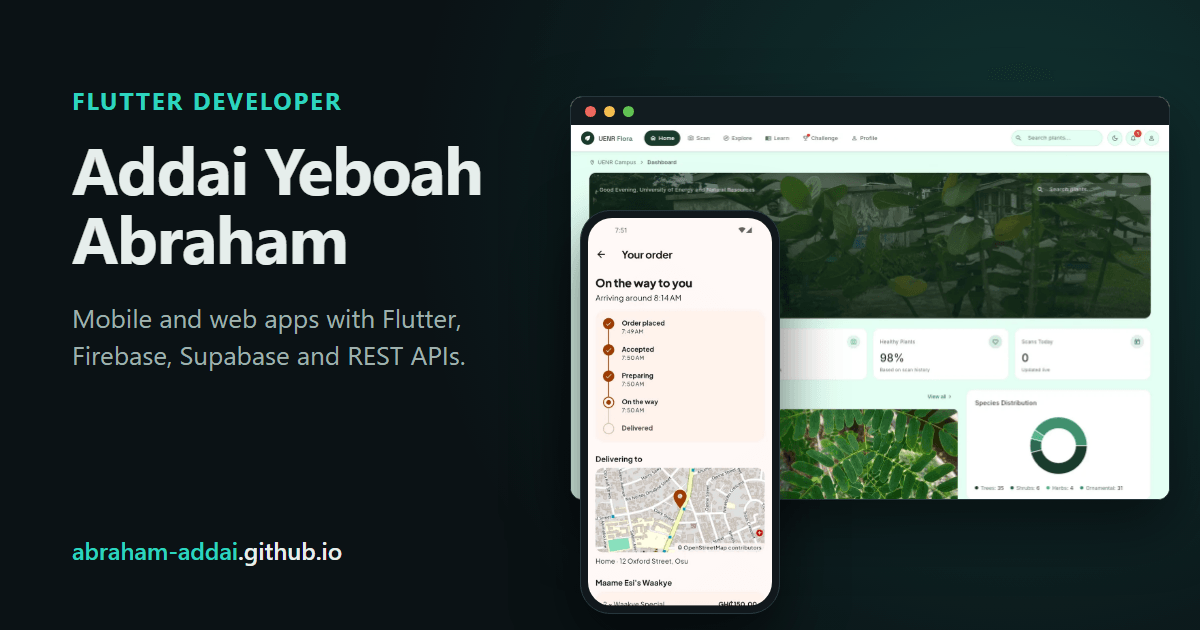
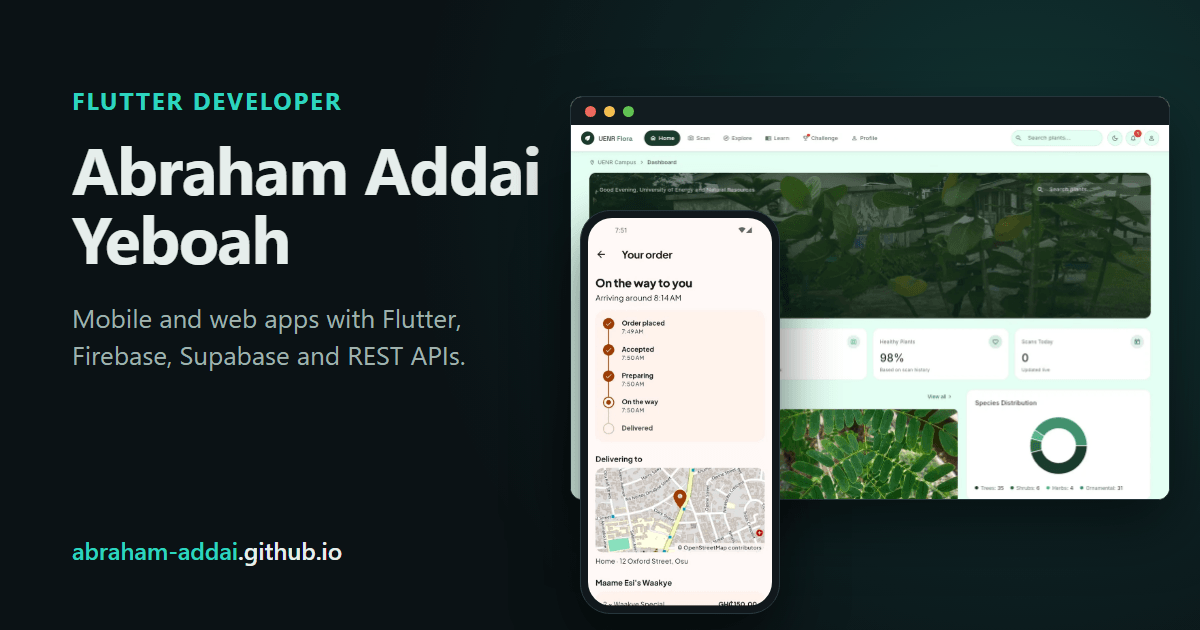
feat: use 'Abraham Addai Yeboah' everywhere and sync content with new CV

Changed region(s): [[0.0617, 0.2111, 0.4625, 0.4222]]

diff --git a/index.html b/index.html
@@ -3,7 +3,7 @@
   <head>
     <meta charset="utf-8" />
     <meta name="viewport" content="width=device-width, initial-scale=1" />
-    <title>Addai Yeboah Abraham | Flutter Developer</title>
+    <title>Abraham Addai Yeboah | Flutter Developer</title>
     <meta
       name="description"
       content="Flutter developer in Ghana building mobile and web apps with Firebase, Supabase and REST APIs. Projects: QuickPlate, UENR Flora, CampusPrint, HostelHub."
@@ -23,10 +23,10 @@
     <link rel="icon" href="assets/favicon.svg" type="image/svg+xml" />
 
     <meta property="og:type" content="profile" />
-    <meta property="og:site_name" content="Addai Yeboah Abraham" />
+    <meta property="og:site_name" content="Abraham Addai Yeboah" />
     <meta
       property="og:title"
-      content="Addai Yeboah Abraham | Flutter Developer"
+      content="Abraham Addai Yeboah | Flutter Developer"
     />
     <meta
       property="og:description"
@@ -41,12 +41,12 @@
     <meta property="og:image:height" content="630" />
     <meta
       property="og:image:alt"
-      content="Addai Yeboah Abraham, Flutter Developer, with screenshots of QuickPlate and UENR Flora"
+      content="Abraham Addai Yeboah, Flutter Developer, with screenshots of QuickPlate and UENR Flora"
     />
     <meta name="twitter:card" content="summary_large_image" />
     <meta
       name="twitter:title"
-      content="Addai Yeboah Abraham | Flutter Developer"
+      content="Abraham Addai Yeboah | Flutter Developer"
     />
     <meta
       name="twitter:description"
@@ -58,14 +58,14 @@
     />
     <meta
       name="twitter:image:alt"
-      content="Addai Yeboah Abraham, Flutter Developer, with screenshots of QuickPlate and UENR Flora"
+      content="Abraham Addai Yeboah, Flutter Developer, with screenshots of QuickPlate and UENR Flora"
     />
 
     <script type="application/ld+json">
       {
         "@context": "https://schema.org",
         "@type": "Person",
-        "name": "Addai Yeboah Abraham",
+        "name": "Abraham Addai Yeboah",
         "jobTitle": "Flutter Developer",
         "url": "https://abraham-addai.github.io/",
         "email": "mailto:addaiabraham76@gmail.com",
@@ -92,7 +92,7 @@
 
     <header class="site-header">
       <div class="container site-header__inner">
-        <a class="logo" href="#top">Addai Yeboah Abraham</a>
+        <a class="logo" href="#top">Abraham Addai Yeboah</a>
         <button
           class="theme-toggle"
           type="button"
@@ -135,19 +135,22 @@
       <section id="top" class="section hero" aria-labelledby="hero-title">
         <div class="container stack">
           <p class="eyebrow">Flutter Developer</p>
-          <h1 id="hero-title">Addai Yeboah Abraham</h1>
+          <h1 id="hero-title">Abraham Addai Yeboah</h1>
           <p class="lead hero__pitch">
             I build mobile and web apps with Flutter, Firebase, Supabase and
             REST APIs. Computer Science graduate from UENR, Ghana (2026), with
             internship and remote software engineering experience.
           </p>
           <p class="hero__meta">
-            Ghana (remote-friendly). Open to full-time or part-time remote
-            roles.
+            Kumasi, Ghana (open to remote). Looking for a remote full-time or
+            part-time Flutter role.
           </p>
           <div class="cluster hero__actions">
             <a class="btn btn--primary" href="#projects">View projects</a>
-            <a class="btn" href="assets/cv/Addai_Yeboah_Abraham_CV.pdf" download
+            <a
+              class="btn"
+              href="assets/cv/Abraham_Addai_Yeboah_Flutter_CV.pdf"
+              download
               >Download CV <span class="small">(PDF)</span></a
             >
             <a class="btn" href="mailto:addaiabraham76@gmail.com">Email me</a>
@@ -476,24 +479,23 @@
             <li class="timeline__item">
               <article>
                 <h3>Flutter Mobile Development Intern, Amalitech</h3>
-                <p class="timeline__meta">Kumasi · 2025</p>
+                <p class="timeline__meta">Kumasi, Ghana · 2025 (3 months)</p>
                 <ul class="timeline__points">
                   <li>
                     Built features for NetSim, a team-built network simulation
                     game in Flutter with Riverpod: a scenario editor for devices
                     and their connections, player scoring with a leaderboard,
-                    and pause/resume for the simulation
-                  </li>
-                  <li>
-                    Modelled device errors in the simulation (error types, how
-                    each is handled, and automatic recovery after a grace
-                    period)
+                    pause/resume, and device errors that recover automatically
+                    after a grace period
                   </li>
                   <li>
                     Built the simulation logs end to end: the logs screen in
-                    Flutter and the log endpoints in the Node.js/Express
-                    backend, working in a feature-branch Git workflow with the
-                    team
+                    Flutter and the log endpoints in the Node.js/Express backend
+                  </li>
+                  <li>
+                    Worked with senior developers on UI/UX implementation and
+                    feature integration, took part in code reviews and agile
+                    processes, and used Git for collaborative development
                   </li>
                 </ul>
               </article>
@@ -504,11 +506,13 @@
                 <p class="timeline__meta">Remote (Sweden) · 2023 to 2024</p>
                 <ul class="timeline__points">
                   <li>
-                    Maintained a Flutter grocery app that sells food items
+                    Maintained a Flutter grocery app that sells food items,
+                    keeping the product catalogue up to date and the app running
+                    for customers
                   </li>
                   <li>
-                    Kept the product catalogue up to date and kept the app
-                    running for customers
+                    Collaborated with cross-functional teams to design,
+                    implement and deploy application features
                   </li>
                 </ul>
               </article>
@@ -516,13 +520,17 @@
             <li class="timeline__item">
               <article>
                 <h3>Field Trainer, Ecom Ghana</h3>
-                <p class="timeline__meta">2020 to 2024</p>
+                <p class="timeline__meta">
+                  Akrokerti, Obuasi District · 2020 to 2024
+                </p>
                 <ul class="timeline__points">
                   <li>
-                    Coordinated training sessions and supported the delivery of
-                    training activities
+                    Led a team of junior trainers and coordinated training
+                    sessions to improve field staff performance
                   </li>
-                  <li>Helped lead and guide junior trainers</li>
+                  <li>
+                    Implemented technology-assisted data collection processes
+                  </li>
                   <li>
                     Trained people of all ages, with and without formal
                     education
@@ -540,7 +548,8 @@
                 (UENR), Ghana, completed 2026
               </li>
               <li>
-                AWS Certified Cloud Practitioner ·
+                AWS Certified Cloud Practitioner, Amazon Web Services, May 2026
+                ·
                 <a
                   href="https://www.credly.com/badges/fb28962f-560f-448c-9787-d24fbecd05da"
                   target="_blank"
@@ -563,6 +572,7 @@
                 <li>Flutter</li>
                 <li>Dart</li>
                 <li>Provider</li>
+                <li>REST API integration</li>
               </ul>
             </div>
             <div class="skill-group">
@@ -594,6 +604,7 @@
               <ul class="chips">
                 <li>Git</li>
                 <li>GitHub</li>
+                <li>Paystack integration</li>
               </ul>
             </div>
           </div>
@@ -630,7 +641,7 @@
             </li>
             <li>
               <span class="contact-list__label">CV</span>
-              <a href="assets/cv/Addai_Yeboah_Abraham_CV.pdf" download
+              <a href="assets/cv/Abraham_Addai_Yeboah_Flutter_CV.pdf" download
                 >Download CV (PDF)</a
               >
             </li>
@@ -641,7 +652,7 @@
 
     <footer class="site-footer">
       <div class="container site-footer__inner">
-        <p>© 2026 Addai Yeboah Abraham</p>
+        <p>© 2026 Abraham Addai Yeboah</p>
         <p class="muted">
           Built with plain HTML, CSS and JS.
           <a

diff --git a/404.html b/404.html
@@ -3,7 +3,7 @@
   <head>
     <meta charset="utf-8" />
     <meta name="viewport" content="width=device-width, initial-scale=1" />
-    <title>Page not found | Addai Yeboah Abraham</title>
+    <title>Page not found | Abraham Addai Yeboah</title>
     <meta name="robots" content="noindex" />
     <meta name="color-scheme" content="light dark" />
     <link rel="icon" href="/assets/favicon.svg" type="image/svg+xml" />
@@ -23,7 +23,7 @@
 
     <header class="site-header">
       <div class="container site-header__inner">
-        <a class="logo" href="/">Addai Yeboah Abraham</a>
+        <a class="logo" href="/">Abraham Addai Yeboah</a>
       </div>
     </header>
 

diff --git a/README.md b/README.md
@@ -1,4 +1,4 @@
-# Addai Yeboah Abraham | Flutter Developer
+# Abraham Addai Yeboah | Flutter Developer
 
 [![Checks](https://github.com/abraham-addai/abraham-addai.github.io/actions/workflows/checks.yml/badge.svg)](https://github.com/abraham-addai/abraham-addai.github.io/actions/workflows/checks.yml)
 
